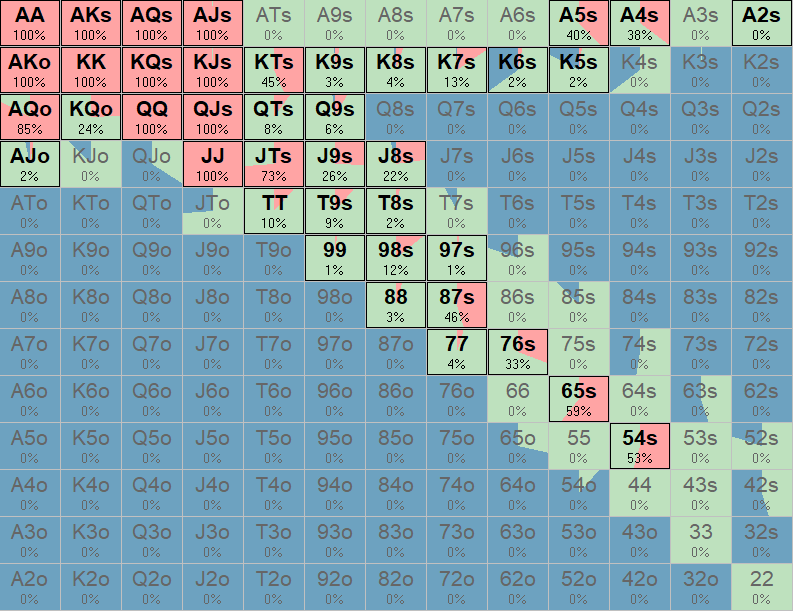
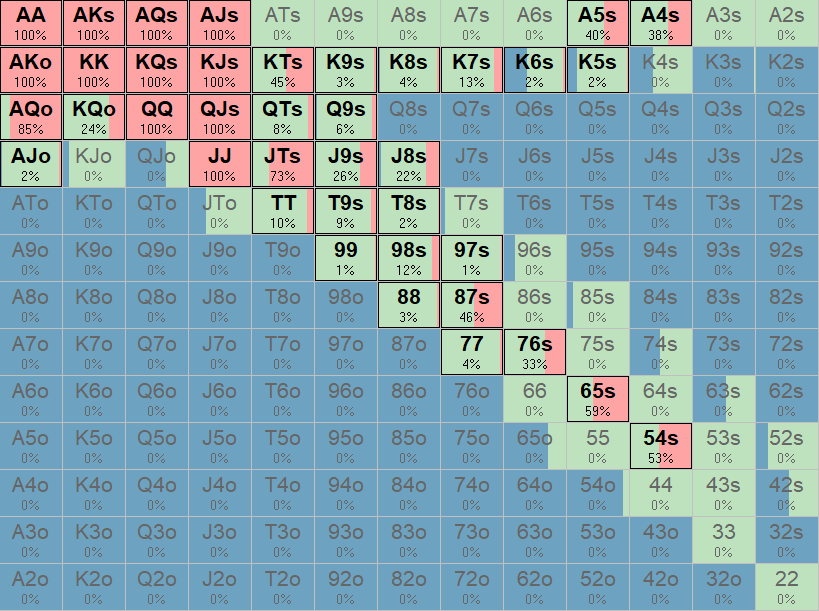
Added more charts

diff --git a/manifest.js b/manifest.js
@@ -1,30 +1,61 @@
 /* =====================================================================
    manifest.js - AUTO-GENERATED by build-manifest.ps1
    Do not edit by hand. Run build-manifest.ps1 after adding images.
-   Generated: 2026-04-17 20:54
+   Generated: 2026-04-18 00:24
    ===================================================================== */
 
 window.IMAGE_MANIFEST = [
+  "6max_22/BB/BB_3B-BTN.png",
   "6max_22/BB/BB_3B-CO-12BB.png",
   "6max_22/BB/BB_3B-MP-12BB.png",
   "6max_22/BB/BB_3B-UTG-12BB.png",
+  "6max_22/BB/BB_C4B-SB-BTN-23BB.png",
+  "6max_22/BB/BB_Squeeze-BTN-CO.png",
+  "6max_22/BB/BB_Squeeze-BTN-MP.png",
   "6max_22/BB/BB_Squeeze-BTN-UTG.png",
+  "6max_22/BB/BB_Squeeze-SB-BTN-11BB.png",
   "6max_22/BB/BB-overview_rfi.png",
+  "6max_22/BB-BTN_4B-24BB.png",
+  "6max_22/BTN/BTN.png",
+  "6max_22/BTN/BTN_3B-CO-7bb.png",
+  "6max_22/BTN/BTN_3B-MP-7bb.png",
+  "6max_22/BTN/BTN_3B-UTG-7bb.png",
   "6max_22/BTN/BTN_CC-CO.png",
   "6max_22/BTN/BTN_CC-MP.png",
   "6max_22/BTN/BTN_CC-UTG.png",
+  "6max_22/BTN/BTN-BB_3B.png",
+  "6max_22/BTN/BTN-BB_C4B-SB.png",
+  "6max_22/BTN/BTN-SB_3B.png",
   "6max_22/CO/CO.png",
   "6max_22/CO/CO_3B-MP-7BB.png",
   "6max_22/CO/CO_3B-UTG.png",
+  "6max_22/CO/CO-BB_3B.png",
+  "6max_22/CO/CO-BTN_3B.png",
+  "6max_22/CO/CO-BTN-BB_Squeeze-13bb.png",
+  "6max_22/CO/CO-BTN-SB_Squeeze-13bb.png",
+  "6max_22/CO/CO-MP_4B.png",
+  "6max_22/CO/CO-SB_3B.png",
   "6max_22/CO/CO-UTG_4B.png",
   "6max_22/MP/MP.png",
   "6max_22/MP/MP_3B-UTG-7BB.png",
+  "6max_22/MP/MP-BB_3B.png.png",
+  "6max_22/MP/MP-BTN_3B.png",
+  "6max_22/MP/MP-BTN-BB_Squeeze-13bb.png",
+  "6max_22/MP/MP-BTN-SB_Squeeze-13bb.png",
+  "6max_22/MP/MP-CO_3B.png",
+  "6max_22/MP/MP-SB_3B.png.png",
   "6max_22/MP/MP-UTG_4B.png",
+  "6max_22/SB/SB_3B-BTN.png",
   "6max_22/SB/SB_3B-CO-11BB.png",
   "6max_22/SB/SB_3B-MP-11BB.png",
   "6max_22/SB/SB_3B-UTG-11BB.png",
+  "6max_22/SB/SB_Squeeze-BTN-CO.png",
+  "6max_22/SB/SB_Squeeze-BTN-MP.png",
+  "6max_22/SB/SB_Squeeze-BTN-UTG.png",
+  "6max_22/SB/SB-BTN-BB_C4B.png",
   "6max_22/SB/SB-overview_BB3B.png",
   "6max_22/SB/SB-UTG_4B.png",
+  "6max_22/SB-BTN_4B-22BB.png",
   "6max_22/UTG/UTG.png",
   "6max_22/UTG/UTG-BB_3B-12BB.png",
   "6max_22/UTG/UTG-BTN_3B-7bb.png",